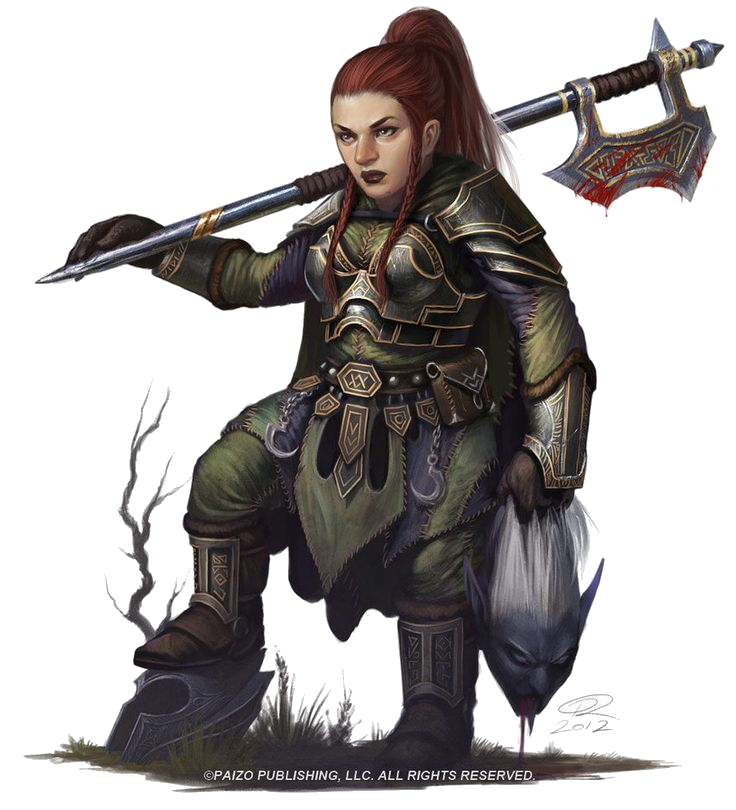
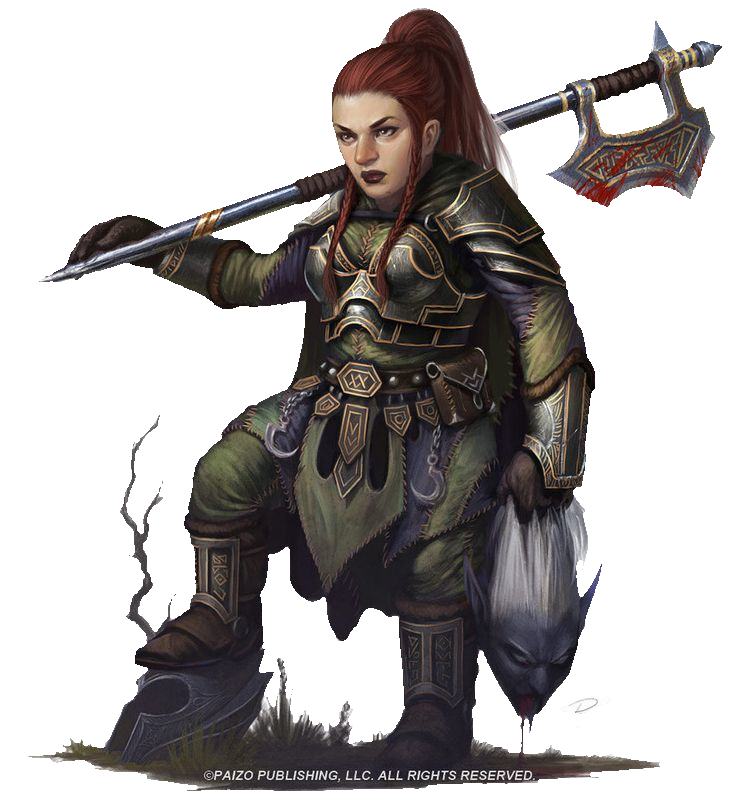
Added a transposed image for easier calculations. Switch to using Spr…

diff --git a/src/index.py b/src/index.py
@@ -6,18 +6,20 @@ mainWindow = pyglet.window.Window(fullscreen=True)
 
 backgroundImage = pyglet.resource.image('Gate.jpg')
 dwarfImage = pyglet.resource.image('Dwarf.png')
-dwarfImageRight = pyglet.resource.image('Dwarf.png', flip_x=True)
+dwarf = pyglet.sprite.Sprite(dwarfImage)
+dwarfImageRight = pyglet.resource.image('Dwarf_right.png')
+dwarfRight = pyglet.sprite.Sprite(dwarfImageRight)
 dwarfXPosition = 0
 dwarfYPosition = 0
 dwarfLooksRight = True
-inverseDwarfScale = 2
+dwarfScale = 0.3
 
 @mainWindow.event
 def on_key_press(symbol, modifiers):
 	global dwarfXPosition
 	global dwarfYPosition
 	global dwarfLooksRight
-	global inverseDwarfScale
+	global dwarfScale
 	if symbol == key.LEFT:
 		print 'The LEFT key was pressed'
 		dwarfXPosition = dwarfXPosition - dwarfImage.width//10
@@ -29,31 +31,30 @@ def on_key_press(symbol, modifiers):
 	elif symbol == key.UP:
 		print 'The UP key was pressed'
 		dwarfYPosition = dwarfYPosition + dwarfImage.height//10
-		inverseDwarfScale = inverseDwarfScale + 0.15
+		dwarfScale = dwarfScale - 0.05
 	elif symbol == key.DOWN:
 		print 'The DOWN key was pressed'
 		dwarfYPosition = dwarfYPosition - dwarfImage.height//10
-		inverseDwarfScale = inverseDwarfScale - 0.15
-
-
-	else: 
+		dwarfScale = dwarfScale + 0.05
+	else:
 		print 'A key was pressed'
+
 
 @mainWindow.event
 def on_draw():
+	global dwarfScale
 	mainWindow.clear()
 	backgroundImage.blit(0,0, width=mainWindow.width, height=mainWindow.height)
 	if dwarfLooksRight:
-		dwarfImageRight.blit(dwarfImage.width + dwarfXPosition,
-			dwarfYPosition, 
-			width=dwarfImage.width//(inverseDwarfScale*inverseDwarfScale), 
-			height=dwarfImage.height//(inverseDwarfScale*inverseDwarfScale))
+		dwarfRight.set_position(dwarfXPosition, dwarfYPosition)
+		dwarfRight.scale = dwarfScale
+		dwarfRight.draw()
 	else:
-		dwarfImage.blit(dwarfXPosition,
-			dwarfYPosition, 
-			width=dwarfImage.width//(inverseDwarfScale*inverseDwarfScale), 
-			height=dwarfImage.height//(inverseDwarfScale*inverseDwarfScale))
-	dwarfScaleLabel = pyglet.text.Label(str(inverseDwarfScale))
+		dwarf.set_position(dwarfXPosition, dwarfYPosition)
+		dwarf.scale = dwarfScale
+		dwarf.draw()
+	dwarfScaleLabel = pyglet.text.Label(str(dwarfScale))
 	dwarfScaleLabel.draw()
+
 
 pyglet.app.run()
